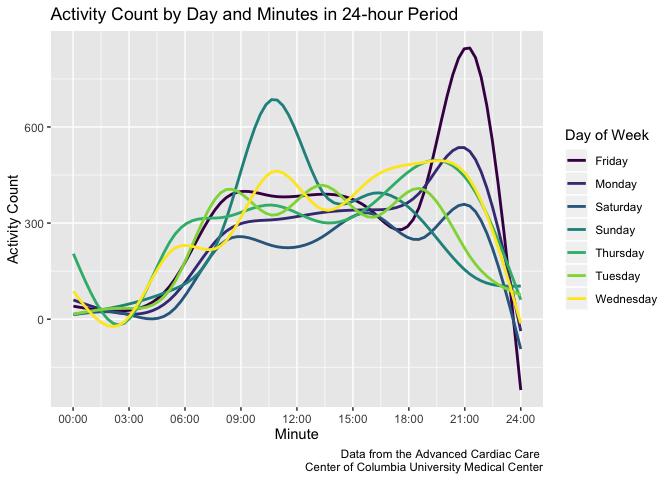
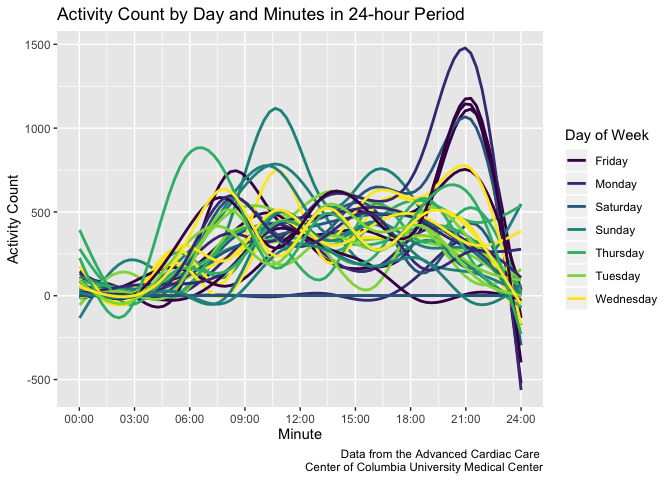
Now I'm really done...I think

diff --git a/HW3.md b/HW3.md
@@ -123,24 +123,19 @@ apples_and_cream = instacart %>%
       mean_time = paste(hour, minute, sep = ":")) %>% 
   select(order_dow, product_name, mean_time) %>% 
   pivot_wider(
-    names_from = "product_name", 
+    names_from = "order_dow", 
     values_from = "mean_time"
   ) %>% 
-  rename("Day of Week" = order_dow) %>% 
+  rename("Product Name" = product_name) %>% 
   knitr::kable()
 
 apples_and_cream
 ```
 
-| Day of Week | Coffee Ice Cream | Pink Lady Apples |
-| :---------- | :--------------- | :--------------- |
-| Sunday      | 13:46            | 13:26            |
-| Monday      | 14:19            | 11:22            |
-| Tuesday     | 15:23            | 11:42            |
-| Wednesday   | 15:19            | 14:15            |
-| Thursday    | 15:13            | 11:33            |
-| Friday      | 12:16            | 12:47            |
-| Saturday    | 13:50            | 11:56            |
+| Product Name     | Sunday | Monday | Tuesday | Wednesday | Thursday | Friday | Saturday |
+| :--------------- | :----- | :----- | :------ | :-------- | :------- | :----- | :------- |
+| Coffee Ice Cream | 13:46  | 14:19  | 15:23   | 15:19     | 15:13    | 12:16  | 13:50    |
+| Pink Lady Apples | 13:26  | 11:22  | 11:42   | 14:15     | 11:33    | 12:47  | 11:56    |
 
   - Worked under the assumption that 0 = Sunday\!
 
@@ -333,9 +328,9 @@ total_activity
 
 ``` r
 activity_plot = accel_data %>% 
-  group_by(activity_minute, day) %>% 
-  summarize(mean_activity = mean(activity_count)) %>% 
-ggplot(aes(x = activity_minute, y = mean_activity, color = day)) +
+  group_by(day_id, day, activity_minute) %>% 
+  select(day_id, day, activity_minute, activity_count) %>% 
+ggplot(aes(x = activity_minute, y = activity_count, group = day_id, color = day)) +
   geom_smooth(se = FALSE) +
   labs(
     title = "Activity Count by Day and Minutes in 24-hour Period",
@@ -362,5 +357,5 @@ activity_plot
 
   - The lowest activity points for all days are from 2:00-4:00 and at
     24:00, while the highest activity points occur around 10:00 on
-    Sundays and 21:00 on Fridays. On average, the activity count stays
-    under 500.
+    Sundays and 21:00 on Mondays, Fridays, and Saturdays. On average,
+    the activity count stays around 500.
